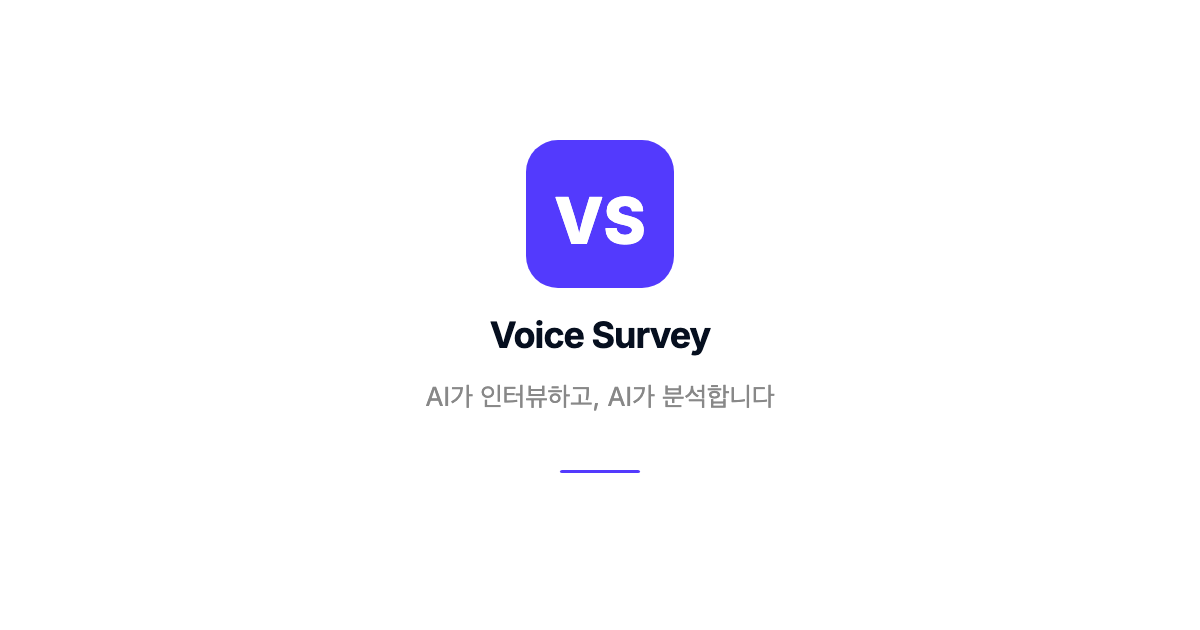
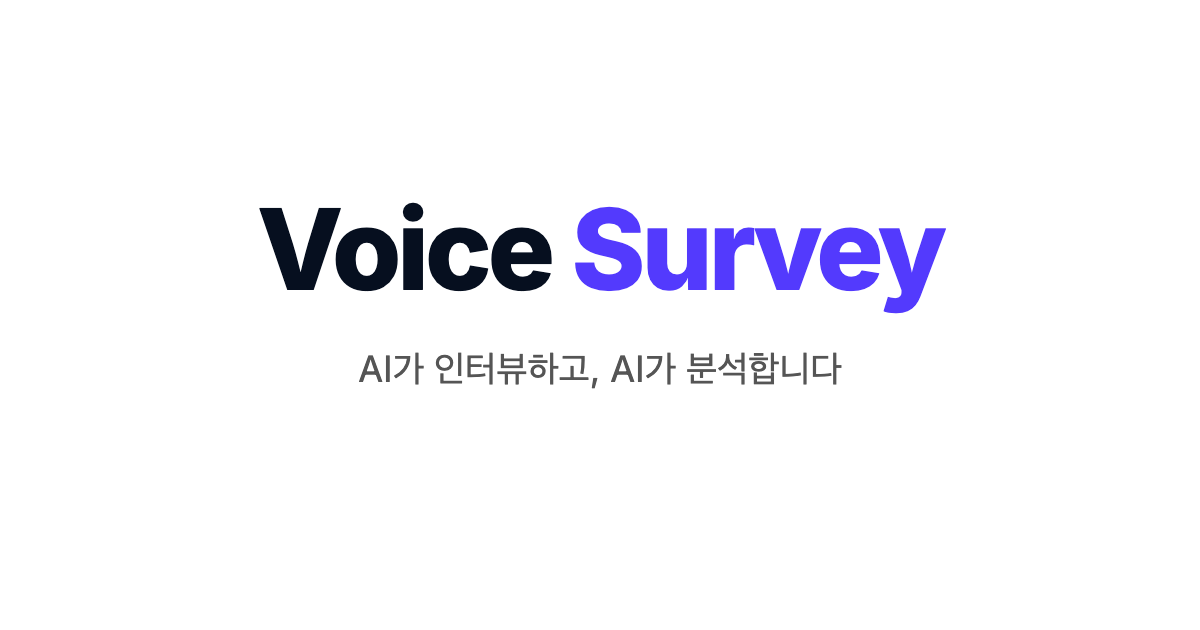
fix: OG image logotype only, no symbol

Changed region(s): [[0.2158, 0.2111, 0.8017, 0.5127], [0.2775, 0.5127, 0.7092, 0.6635], [0.4625, 0.7238, 0.5242, 0.754]]

diff --git a/og-image-template.html b/og-image-template.html
@@ -13,18 +13,11 @@
   <!-- Background: white -->
   <rect width="1200" height="630" fill="#ffffff"/>
 
-  <!-- VS badge — large, centered -->
-  <rect x="526" y="140" width="148" height="148" rx="32" fill="#533afd"/>
-  <text x="600" y="244" font-family="Inter, Helvetica, Arial, sans-serif" font-weight="800" font-size="64" fill="#ffffff" text-anchor="middle">VS</text>
-
-  <!-- Brand name -->
-  <text x="600" y="348" font-family="Inter, Helvetica, Arial, sans-serif" font-weight="700" font-size="36" fill="#060f1f" text-anchor="middle" letter-spacing="-1">Voice Survey</text>
+  <!-- Logotype -->
+  <text x="600" y="290" font-family="Inter, Helvetica, Arial, sans-serif" font-weight="800" font-size="112" fill="#060f1f" text-anchor="middle" letter-spacing="-4">Voice <tspan fill="#533afd">Survey</tspan></text>
 
   <!-- Tagline -->
-  <text x="600" y="406" font-family="Inter, Helvetica, Arial, sans-serif" font-weight="400" font-size="26" fill="#888888" text-anchor="middle">AI가 인터뷰하고, AI가 분석합니다</text>
-
-  <!-- Bottom accent line -->
-  <rect x="560" y="470" width="80" height="3" rx="2" fill="#533afd"/>
+  <text x="600" y="382" font-family="Inter, Helvetica, Arial, sans-serif" font-weight="400" font-size="36" fill="#555555" text-anchor="middle">AI가 인터뷰하고, AI가 분석합니다</text>
 </svg>
 </body>
 </html>
